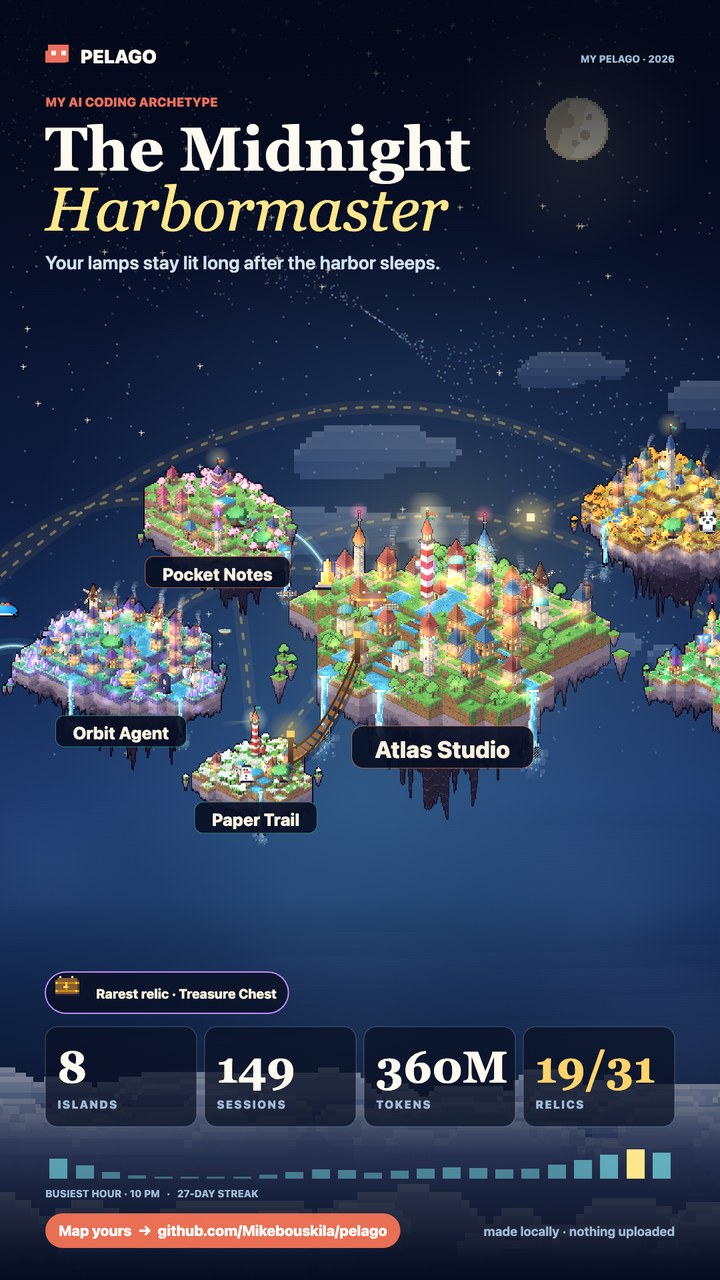
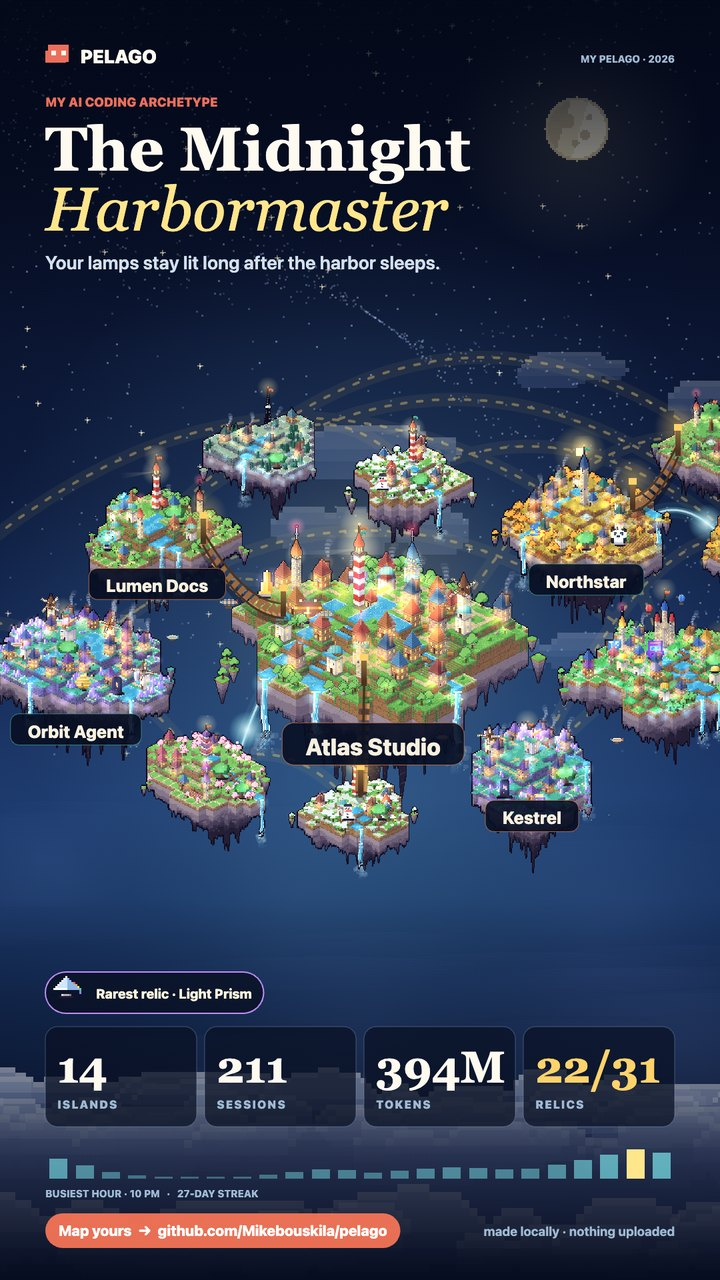
New README, fresh screenshots, richer demo; drop the plugin install
- README rebuilt around the one-prompt install, with new images of the
  map, a clickable relic, the Field Guide, the cards and the phone layout.
- Demo world grows to 14 islands so screenshots read as a real archipelago.
- Remove the Claude Code plugin manifests; the skill installs by prompt or clone.

diff --git a/scripts/pelago.py b/scripts/pelago.py
@@ -654,6 +654,9 @@ def scan(home: Path, since_days: int | None = None) -> dict[str, Any]:
 
 
 DEMO_TECH = {
+    "Lumen Docs": {"react": 140, "tailwind": 120},
+    "Kestrel": {"llm": 160, "mcp": 50},
+    "Pixel Forge": {"gamedev": 90, "threejs": 40},
     "Atlas Studio": {"react": 420, "typescript": 380, "payments": 40},
     "Orbit Agent": {"llm": 300, "python": 260, "docker": 30},
     "Tiny Quest": {"gamedev": 210, "typescript": 50},
@@ -674,6 +677,12 @@ def demo_data() -> dict[str, Any]:
         ("Pocket Notes", "claude", "mobile", 12, 540, 1800, 120, 6_200_000, 19, {"build": 380, "shell": 200, "web": 60}),
         ("Paper Trail", "codex", "web", 8, 300, 900, 70, 2_400_000, 130, {"build": 160, "shell": 120, "read": 40}),
         ("Sunday Lab", "claude", "other", 5, 140, 420, 30, 700_000, 26, {"shell": 50, "web": 30, "crew": 10}),
+        ("Lumen Docs", "claude", "web", 16, 820, 2600, 170, 12_400_000, 3, {"build": 500, "read": 300, "web": 90}),
+        ("Tidepool", "codex", "data", 11, 560, 1700, 110, 5_100_000, 9, {"shell": 300, "read": 140}),
+        ("Kestrel", "claude", "ai", 13, 700, 2200, 140, 9_800_000, 1, {"shell": 400, "crew": 60, "build": 200}),
+        ("Pixel Forge", "claude", "game", 9, 430, 1300, 90, 3_900_000, 40, {"build": 260, "shell": 120}),
+        ("Harbor API", "codex", "web", 7, 260, 800, 55, 1_900_000, 70, {"shell": 160, "build": 80}),
+        ("Night Owl", "claude", "cli", 6, 190, 560, 40, 1_100_000, 2, {"shell": 120, "build": 40}),
     ]
     projects = []
     now = datetime.now(timezone.utc)
@@ -707,6 +716,9 @@ def demo_data() -> dict[str, Any]:
         {"a": by_name["Atlas Studio"], "b": by_name["Pocket Notes"], "kind": "name", "word": "atlas"},
         {"a": by_name["Orbit Agent"], "b": by_name["Signal CLI"], "kind": "name", "word": "orbit"},
         {"a": by_name["Northstar"], "b": by_name["Sunday Lab"], "kind": "nest", "word": ""},
+        {"a": by_name["Atlas Studio"], "b": by_name["Lumen Docs"], "kind": "nest", "word": ""},
+        {"a": by_name["Northstar"], "b": by_name["Tidepool"], "kind": "name", "word": "tide"},
+        {"a": by_name["Tiny Quest"], "b": by_name["Pixel Forge"], "kind": "nest", "word": ""},
     ]
     return enrich({"version": 2, "generatedAt": now.isoformat(), "projects": projects, "links": links, "rhythm": rhythm, "sources": [
         {"agent": "claude", "available": True, "files": 4, "sessions": 4},

diff --git a/README.md b/README.md
@@ -1,31 +1,25 @@
 <div align="center">
 
-<img src="assets/pelago-logo.svg" alt="Pelago" height="44">
+<img src="assets/pelago-logo.svg" alt="Pelago" height="48">
 
-### Everything you built with AI became a place.
+# Everything you built with AI became a place.
 
-Pelago turns your Claude Code and Codex history into a pixel-art archipelago.<br>
-Every project becomes its own island, built from the work itself: a building for every session, a tree for every request, waterfalls from your tokens.
+**Pelago turns your Claude Code and Codex history into a living pixel-art archipelago.**<br>
+Every project is an island, built from the work itself. Then it tells you who you are as a builder.
 
 <br>
 
-<img src="docs/island.gif" alt="A living Pelago island: a striped lighthouse, a town of workshops and forges with smoking chimneys, waterfalls pouring off the floating rock, and airships circling" width="640">
+<img src="docs/world.jpg" alt="A Pelago world: an archipelago of floating pixel-art islands under a night sky, each one a project" width="100%">
 
-<br><br>
+<br>
 
-<img src="docs/story.gif" alt="The Pelago story: sessions, your capital island, your busiest hour, your streak, your crew, your archetype, your card" width="300">
-&nbsp;&nbsp;&nbsp;
-<img src="docs/card-story.jpg" alt="A Pelago story card for The Midnight Harbormaster" width="300">
-
-<br><br>
-
-**[Get yours in one prompt](#get-yours-in-one-prompt)** · **[Install](#install)** · **[What you get](#what-you-get)** · **[Archetypes](#which-one-are-you)** · **[Privacy](#privacy)**
+**[⚡ Get yours in one prompt](#-get-yours-in-one-prompt)** &nbsp;·&nbsp; **[🏝 How islands grow](#-every-island-is-built-from-your-work)** &nbsp;·&nbsp; **[💎 Relics](#-31-relics-to-find)** &nbsp;·&nbsp; **[🎬 Your story](#-your-story-and-your-card)** &nbsp;·&nbsp; **[🔒 Privacy](#-private-by-design)**
 
 </div>
 
----
+<br>
 
-## Get yours in one prompt
+## ⚡ Get yours in one prompt
 
 Open a new session in **Claude Code** or **Codex**, paste this, and wait about a minute:
 
@@ -46,158 +40,174 @@ Build my Pelago world from my local AI coding history.
 4. Tell me to open pelago-world.html and press "Play your story".
 ```
 
-Everything runs on your machine. Nothing is uploaded, and the page works offline.
+That's it. Everything runs on your machine, nothing is uploaded, and the page works offline.
 
-## Install
+<details>
+<summary><b>Prefer to install it yourself?</b></summary>
 
-**Claude Code** (plugin, recommended):
-
-```bash
-/plugin marketplace add Mikebouskila/pelago
-/plugin install pelago@pelago
-```
-
-Then just ask: *"show me my AI coding wrapped"*. You can also run the skill directly with `/pelago:pelago`.
-
-**Claude Code or Codex** (plain skill):
+<br>
 
 ```bash
 git clone https://github.com/Mikebouskila/pelago ~/.claude/skills/pelago   # Claude Code
 git clone https://github.com/Mikebouskila/pelago ~/.codex/skills/pelago    # Codex
 ```
 
-**No agent at all.** Python 3.9+ and the standard library are enough:
+Then ask your agent for *"my AI coding wrapped"* or *"my Pelago world"*.
+
+No agent at all? Python 3.9+ is enough:
 
 ```bash
-python3 scripts/pelago.py --open
+python3 scripts/pelago.py --open          # your world
+python3 scripts/pelago.py --demo --open   # a sample world, reads nothing
 ```
 
-Want a look before it reads anything? `python3 scripts/pelago.py --demo --open`
+</details>
 
-## Every island is built from its own data
+<br>
 
-No two islands are alike, because no two projects are.
+## 🏝 Every island is built from your work
 
-<img src="docs/gallery.jpg" alt="Eight generated islands, each captioned with the sessions, requests and tokens it was built from" width="100%">
+<div align="center">
+<img src="docs/island.gif" alt="A living Pelago island: a striped lighthouse, workshops and forges with smoking chimneys, waterfalls pouring off the floating rock, airships circling" width="640">
+</div>
+
+<br>
+
+No two islands are alike, because no two projects are. And they're alive: waterfalls pour, chimneys smoke, windmills turn, lighthouses sweep the night.
 
 | Your work | Becomes |
 |---|---|
 | **Tokens** | Land. The island grows, and gains another waterfall, with every 10× more tokens. |
-| **Sessions** | Buildings, one per session. Longer sessions build taller. The keep holds your biggest session and flies your agent's flag. |
-| **Requests** | Trees. Every prompt you typed plants part of the forest. |
-| **Tools your agent used** | Architecture. Smoking forges for shell commands, workshops for edits, domed libraries for reading, signal towers for the web, windmills for subagents. |
-| **Output tokens** | Lit windows and lanterns. |
-| **Kind of project** | The biome: meadow harbor, crystal observatory, autumn terraces, tundra workshops, blossom village, or candy citadel. |
-| **Kind of project, again** | The landmark at the island's heart: a lighthouse for web, an observatory with a telescope for AI, a clock tower for data, a radio mast for CLIs, a pagoda for mobile, a castle with balloons for games, an ancient lantern tree for everything else. |
-| **Subagents** | Airships circling the island, more of them the more your agent delegated. |
-| **Recency** | Recent islands have a lit beacon, smoking chimneys and fireflies. Islands you haven't touched in two months get snow, and their windows go dark. |
+| **Sessions** | Buildings, one per session. Longer sessions build taller. |
+| **Requests you typed** | Trees, gathered into groves. |
+| **Tools your agent used** | Architecture: forges for shell, workshops for edits, libraries for reading, signal towers for the web, windmills for subagents. |
+| **Kind of project** | The biome and the landmark at its heart: a lighthouse for web, an observatory for AI, a clock tower for data, a radio mast for CLIs, a pagoda for mobile, a castle with balloons for games. |
+| **Subagents** | Airships circling overhead. |
+| **Recency** | Fresh work glows with beacons and fireflies. Islands you left alone for two months get snow. |
+| **Claude Code / Codex** | Coral and sea-green flags. Built with both? One island, both flags. |
 
-When the same project was worked on by both Claude Code and Codex, it's still one island, and it flies both crews' flags.
+<img src="docs/gallery.jpg" alt="Eight generated islands, each captioned with the sessions, requests and tokens it was built from" width="100%">
 
-### Relics: 31 things to find
+Your capital sits at the heart, related projects cluster as families, rope bridges join projects nested in each other's folders, and a golden route threads every island in the order you founded them. Filter to just Claude Code or just Codex and the archipelago re-forms around what's left.
 
-What you built leaves treasures on your islands. Each relic stands on the island that earned it, glowing in its rarity colour. Click one to see exactly why you earned it, and open the Field Guide to see every relic and what it takes to unlock it.
+<br>
 
-| | Examples |
-|---|---|
-| **Craft** (what you built with) | Atom Orrery for React, Cargo Whale for Docker, Serpent Idol for Python, Rusted Anvil for Rust, Treasure Chest for payments, Switchboard Totem for MCP, Arcade Cabinet for game engines |
-| **Scale** | Golden Obelisk at 100M tokens, **Titan's Crown** at 1B, Marathon Hourglass for a 1,000-message session, Great Bell at 100 sessions |
-| **Tools** | Beehive for heavy subagent use, Lightning Rod for 2,000 shell commands, Master's Hammer for 1,000 edits, Star Dish for the web, Compass Rose for using every kind of tool |
-| **Crew & time** | Twin Arch when Claude Code and Codex built together, Ancient Oak for a 60-day project, Seedling for something new this week, a Sleeping Snowman for one that's resting |
+## 💎 31 relics to find
 
-Rarities run Common, Rare, Epic, Legendary. Locked relics show a hint, so you know what to build next. How many have you found?
+What you built leaves treasures behind. Each relic stands on the island that earned it, glowing in its rarity colour. **Click one to see exactly why it's there.**
 
-<img src="docs/guide.jpg" alt="The Field Guide's relic collection next to the map" width="100%">
-
-### One connected world
-
-Your islands aren't scattered; they're an archipelago.
-
-- **Your capital sits at the heart**, and every other island takes the closest free spot around it, biggest first.
-- **Families sit together.** An island related to one already placed grows outward from that neighbour.
-- **Rope bridges** join projects that live inside one another's folders, like a design spike inside its main repo.
-- **Light bridges** arc between projects that share a name, so a family like `atlas-*` reads as one constellation.
-- **The golden route** threads every island in the order you founded them, with a lantern sailing along it.
-
-Click any island to see its relics and bridges and jump across. Open the **Field guide** for a full legend of every symbol and your relic collection.
-
-The world is alive: waterfalls pour, smoke drifts, windmill sails turn, flags wave, lighthouse beams sweep. Animation pauses when the tab is hidden and switches off entirely if you prefer reduced motion.
-
-Everything stays pixel-sharp at any size. Islands are drawn from the nearest pixel-art mip and enlarged nearest-neighbour, and the mips are built with a downsampler that keeps outlines instead of blurring them.
-
-The shape, hills, rivers, and layout are seeded from the project, so the same project always grows the same island, and it keeps growing as you work.
-
-## What you get
-
-One HTML file, about 250 KB, that works offline. Open it and press **▶ Play your story**.
-
-<img src="docs/world.jpg" alt="The Pelago map: a floating archipelago of project islands with labels" width="100%">
+<img src="docs/relic.jpg" alt="Clicking the Treasure Chest relic on an island opens a card explaining it was earned by building with payments" width="100%">
 
 | | |
 |---|---|
-| **The map** | Your whole archipelago. Drag and zoom, then click any island to see exactly what it was built from. Coral flags mean Claude Code, sea-green flags mean Codex. |
-| **The story** | A nine-slide recap filmed over your own world: the camera flies from your whole archipelago to your capital and back while it shows your sessions, tokens, a 24-hour clock of when you build, a calendar of your longest streak, your crew, your relics and your archetype. |
-| **The archetype** | A title earned from your real rhythm and project mix, like *The Midnight Harbormaster*. |
-| **The cards** | Story (1080×1920), Square, X/LinkedIn, and GitHub formats. Download, copy to clipboard, share natively on mobile, or post to X in one click. |
+| 🛠 **Craft** | Atom Orrery for React, Cargo Whale for Docker, Serpent Idol for Python, Rusted Anvil for Rust, Treasure Chest for payments, Switchboard Totem for MCP, Arcade Cabinet for game engines, and more |
+| 📈 **Scale** | Golden Obelisk at 100M tokens, **👑 Titan's Crown** at a billion, Marathon Hourglass for a 1,000-message session, Great Bell at 100 sessions |
+| 🧰 **Tools** | Beehive for heavy subagent use, Lightning Rod for 2,000 shell commands, Master's Hammer for 1,000 edits, Compass Rose for using every kind of tool |
+| ⏳ **Crew & time** | Twin Arch when both agents built together, Ancient Oak for a 60-day project, Seedling for something new this week, Sleeping Snowman for one that's resting |
 
-<img src="docs/card-social.jpg" alt="Landscape share card" width="100%">
+Common, Rare, Epic, Legendary. The **Field Guide** explains every symbol on the map and shows your whole collection, including what it takes to unlock the ones you're missing.
 
-## Which one are you?
+<img src="docs/guide.jpg" alt="The Field Guide's relic collection: each relic shows its rarity, what earns it, and which islands it was found on" width="100%">
 
-The noun comes from the kind of project you spend the most time on:
+<br>
+
+## 🎬 Your story and your card
+
+<table>
+<tr>
+<td width="34%" valign="top">
+<img src="docs/story.gif" alt="The Pelago story: the camera flies over your world while it shows sessions, your capital, tokens, your busiest hour, your longest streak, your crew, your relics and your archetype" width="100%">
+</td>
+<td valign="top">
+
+Press **▶ Play your story** for a nine-slide recap filmed over your own world. The camera flies from the whole archipelago down to your capital and back while it shows:
+
+- how many sessions you've had with your agents
+- your **capital**, and how much of everything you built lives there
+- how many **tokens** flowed through, and how much was cached context
+- a 24-hour clock of **when you build**
+- a calendar of your **longest streak**
+- how you split work between **Claude Code and Codex**
+- your **relics**, rarest first
+- your **archetype**
+
+It ends on your share card. Story, Square, X/LinkedIn and GitHub sizes, one tap to share, copy or post.
+
+<img src="docs/card-story.jpg" alt="A Pelago story card: The Midnight Harbormaster over a full archipelago, with islands, sessions, tokens and relics" width="48%">&nbsp;<img src="docs/card-square.jpg" alt="A square Pelago card" width="48%">
+
+</td>
+</tr>
+</table>
+
+<img src="docs/card-social.jpg" alt="A wide Pelago card for X and LinkedIn" width="100%">
+
+<br>
+
+## 🧭 Which one are you?
+
+Your archetype is earned from your real rhythm and project mix. The title comes from what you build most:
 
 | Realm | You build… | Title |
 |---|---|---|
-| 🏝 Harbor | web, mobile, and everything else people arrive at | **Harbormaster** |
+| 🏝 Harbor | web, mobile, and everything people arrive at | **Harbormaster** |
 | 🔭 Observatory | agents, AI tools, CLIs | **Stargazer** |
 | 📚 Living archive | data, analysis, notebooks | **Archivist** |
 | 🏰 Citadel | games | **Castle Builder** |
 
-The adjective comes from when and how you build: **Midnight** (a lot after 10 PM), **Dawn** (early mornings), **Weekend**, **Two-Tide** (real work split between Claude Code and Codex), **Wandering** (many projects), **Devoted** (one project holds most of it), or **Steady**.
+The first word comes from how you build: **Midnight** (a lot after 10 PM), **Dawn**, **Weekend**, **Devoted** (one project holds most of it), **Two-Tide** (real work with both agents), **Wandering** (many projects) or **Steady**.
 
-There are 28 combinations. Post yours with **#pelago**.
+28 combinations. Post yours with **#pelago**.
 
-Pelago describes a footprint, not a score. A small island is not a worse project. Nothing ranks you against anyone else.
+<br>
 
-## Every number is real
+## 📱 Made for your phone too
 
-Pelago counts from your transcripts, not estimates:
+<img src="docs/mobile.jpg" alt="Pelago on a phone: the welcome screen, the map, and a relic card" width="100%">
 
-- **Sessions** are conversations. Subagent threads (Claude Code and Codex) fold into the session that launched them, and metadata files are never counted.
-- **Requests** are only what you typed. Subagent briefs, system notices, compaction summaries and interruptions are excluded.
-- **Messages** are real turns (yours, the agent's, and its tool calls), each reply counted once even when it is split across records.
-- **Tokens** are summed from usage records, each reply billed once. The story tells you how much of it was cached context being re-read.
+<br>
+
+## 🔢 Every number is real
+
+Pelago counts from your transcripts, never estimates:
+
+- **Sessions** are conversations. Subagent threads fold into the session that launched them.
+- **Requests** are only what you typed. Subagent briefs, system notices and summaries don't count.
+- **Tokens** are summed from usage records, each reply billed once.
 - Every line of every transcript is read, however large.
-- Only what is on this computer counts. Claude Code and Codex clean up old transcripts over time, and sessions from other machines or the cloud are not here, so totals can be lower than a billing dashboard. The page shows the date your history starts from.
+- Only what's on this computer counts. Claude Code and Codex clean up old transcripts over time, so totals can be lower than a billing dashboard. The page shows the date your history starts from.
 
 The test suite pins each of these rules against records shaped like real transcripts.
 
-## Useful flags
+<br>
+
+## 🔒 Private by design
+
+- Reads only `~/.claude/projects` and `~/.codex/sessions`.
+- No network requests, no uploads. Every island is drawn in your browser from the numbers.
+- Message text is read in memory to guess each project's realm, then forgotten.
+- The page keeps only aggregates: project names, dates, counts, token totals, tool categories, hour and weekday totals, and how often a fixed list of 17 technologies came up.
+- Sharing a card? Untick **Show project names** if any are confidential.
+
+Pelago describes a footprint, not a score. A small island isn't a worse project, and nothing ranks you against anyone.
+
+<br>
+
+## 🛠 Flags and development
 
 ```bash
 python3 scripts/pelago.py --since-days 30 --open     # your month
 python3 scripts/pelago.py --since-days 365 --open    # your year
 python3 scripts/pelago.py --json-output pelago.json  # keep the aggregates
 python3 scripts/pelago.py --input pelago.json        # rebuild from them
+
+python3 -m unittest discover -s tests -v             # run the tests
 ```
 
-## Privacy
+The generator is `scripts/pelago.py` (standard library only). The page is `assets/world-template.html`, `world.css`, `island.js` (the procedural island generator), `relics.js` and `world.js`, inlined into one file at build time.
 
-- Pelago reads only `~/.claude/projects` and `~/.codex/sessions`.
-- Nothing is uploaded, and there are no network requests. Every island is drawn in your browser from the numbers.
-- Message text is read in memory only to guess each project's realm. It is never written anywhere.
-- The output contains only aggregates: project names, dates, counts (sessions, requests, messages, per-session message counts), token totals, tool-category counts, model family names, hour/weekday totals, which islands are related (by id, never by path), and how often each of 17 well-known technologies came up (a fixed list like React, Python or Docker).
-- Cards show project names by default. If you're about to share and some names are confidential, untick **Show project names**.
+<div align="center">
+<br>
 
-Worktrees and subagent transcripts fold back into the repository they belong to. Throwaway checkouts in `/tmp` become a single island called *Scratch waters*.
+MIT licensed · Made with Claude Code
 
-## Development
-
-```bash
-python3 -m unittest discover -s tests -v
-python3 scripts/pelago.py --demo --output /tmp/pelago-world.html
-```
-
-The generator is `scripts/pelago.py`, which uses only the standard library. The page is `assets/world-template.html`, `world.css`, `island.js` (the procedural island generator), and `world.js`, all inlined into a single file at build time.
-
-MIT licensed.
+</div>
